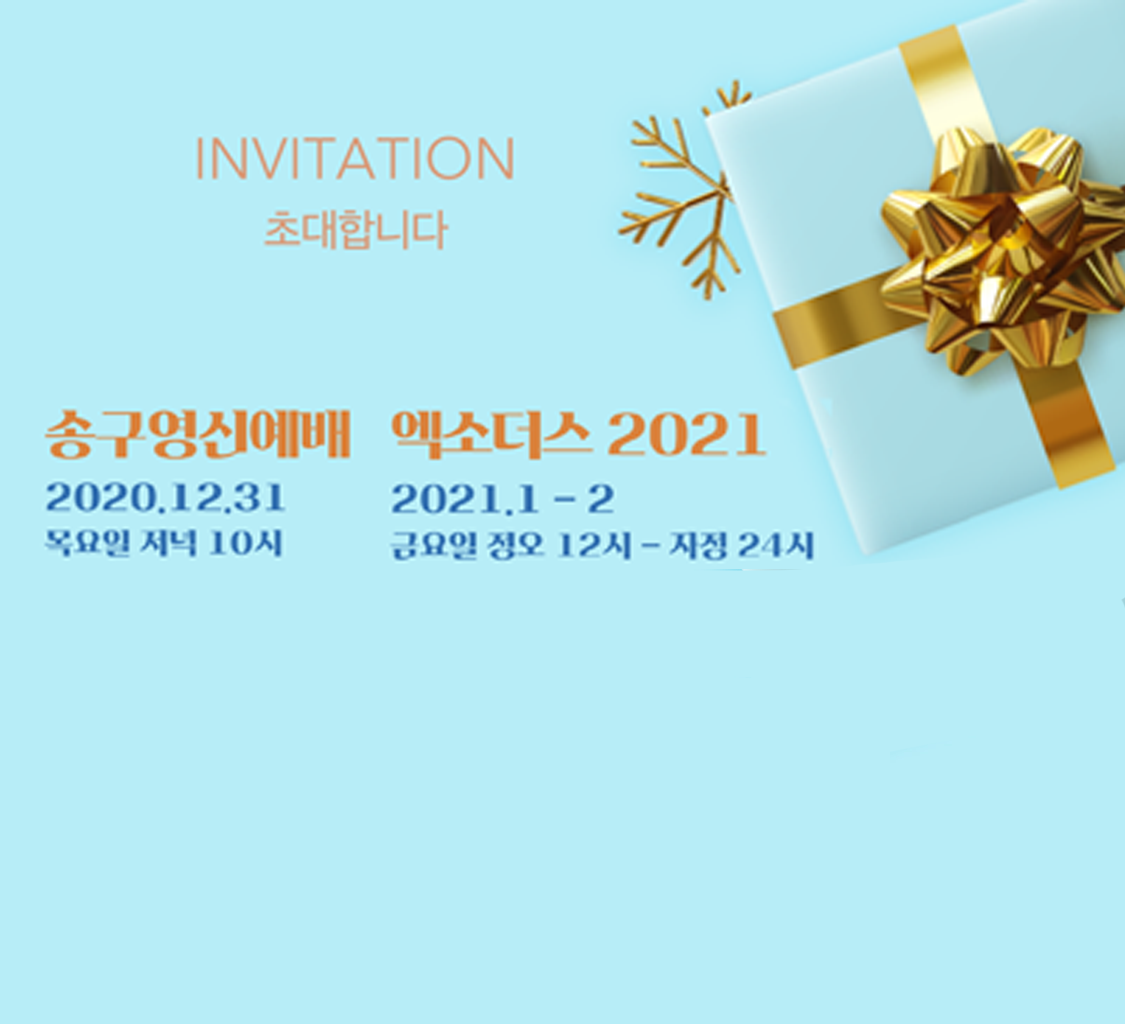
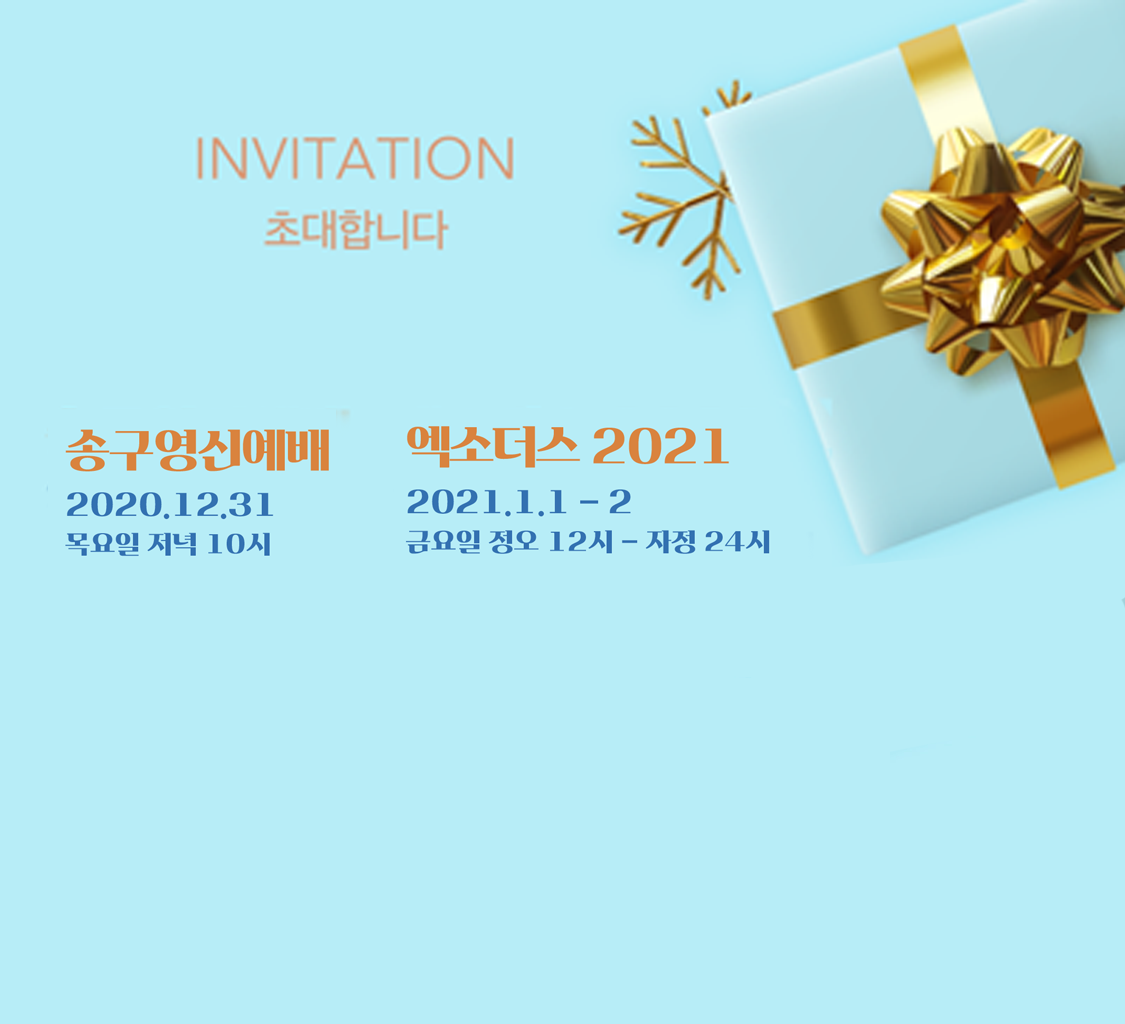
commit

Changed region(s): [[0.3422, 0.375, 0.7467, 0.5625], [0.0311, 0.375, 0.3111, 0.5625]]

diff --git a/index.html b/index.html
@@ -5,7 +5,7 @@
 	<meta http-equiv="X-UA-Compatible" content="IE=Edge">
 	<meta name="viewport" content="width=device-width, initial-scale=1.0, minimum-scale=1.0, user-scalable=yes">
 	<meta name="format-detection" content="telephone=no, address=no, email=no">
-  <meta property="og:image" content="https://user-images.githubusercontent.com/76463172/103291873-0a805400-4a30-11eb-8f68-93f97a58b4f1.png" />
+  <meta property="og:image" content="https://user-images.githubusercontent.com/76463172/103323527-8f965800-4a86-11eb-9be1-709115b478fc.png" />
   <meta property="og:type" content="website" />
   <meta property="og:url" content="https://hansung-church.github.io/Invitation/"/>
     <title>HAPPY NEW YEAR, 송구영신예배 | 엑소더스 2021</title>
